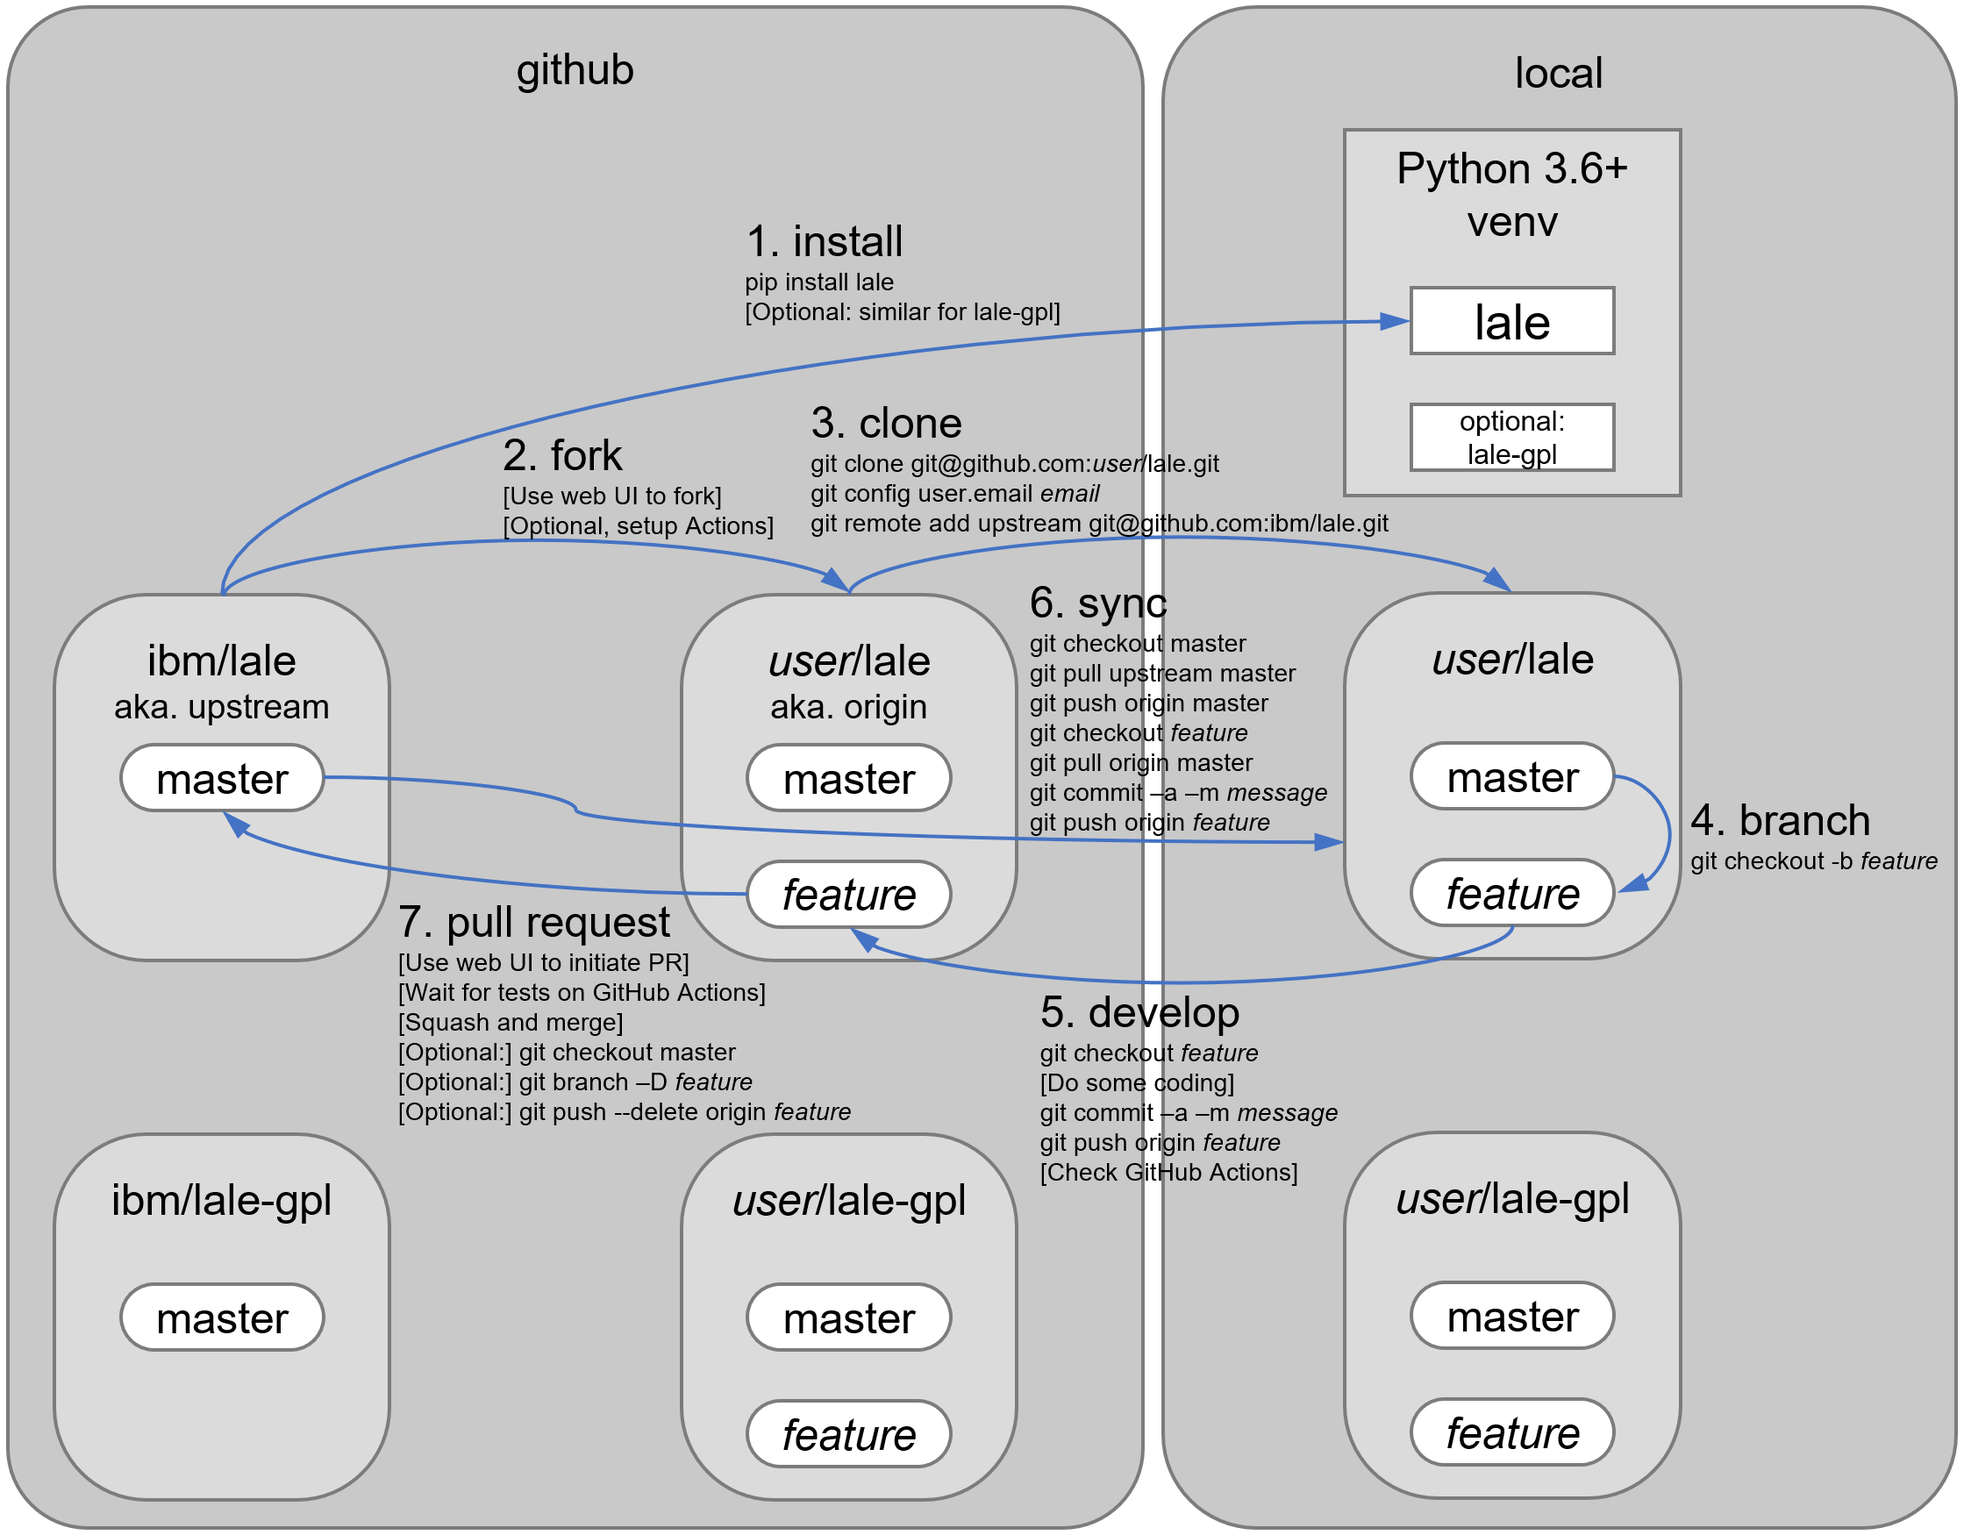
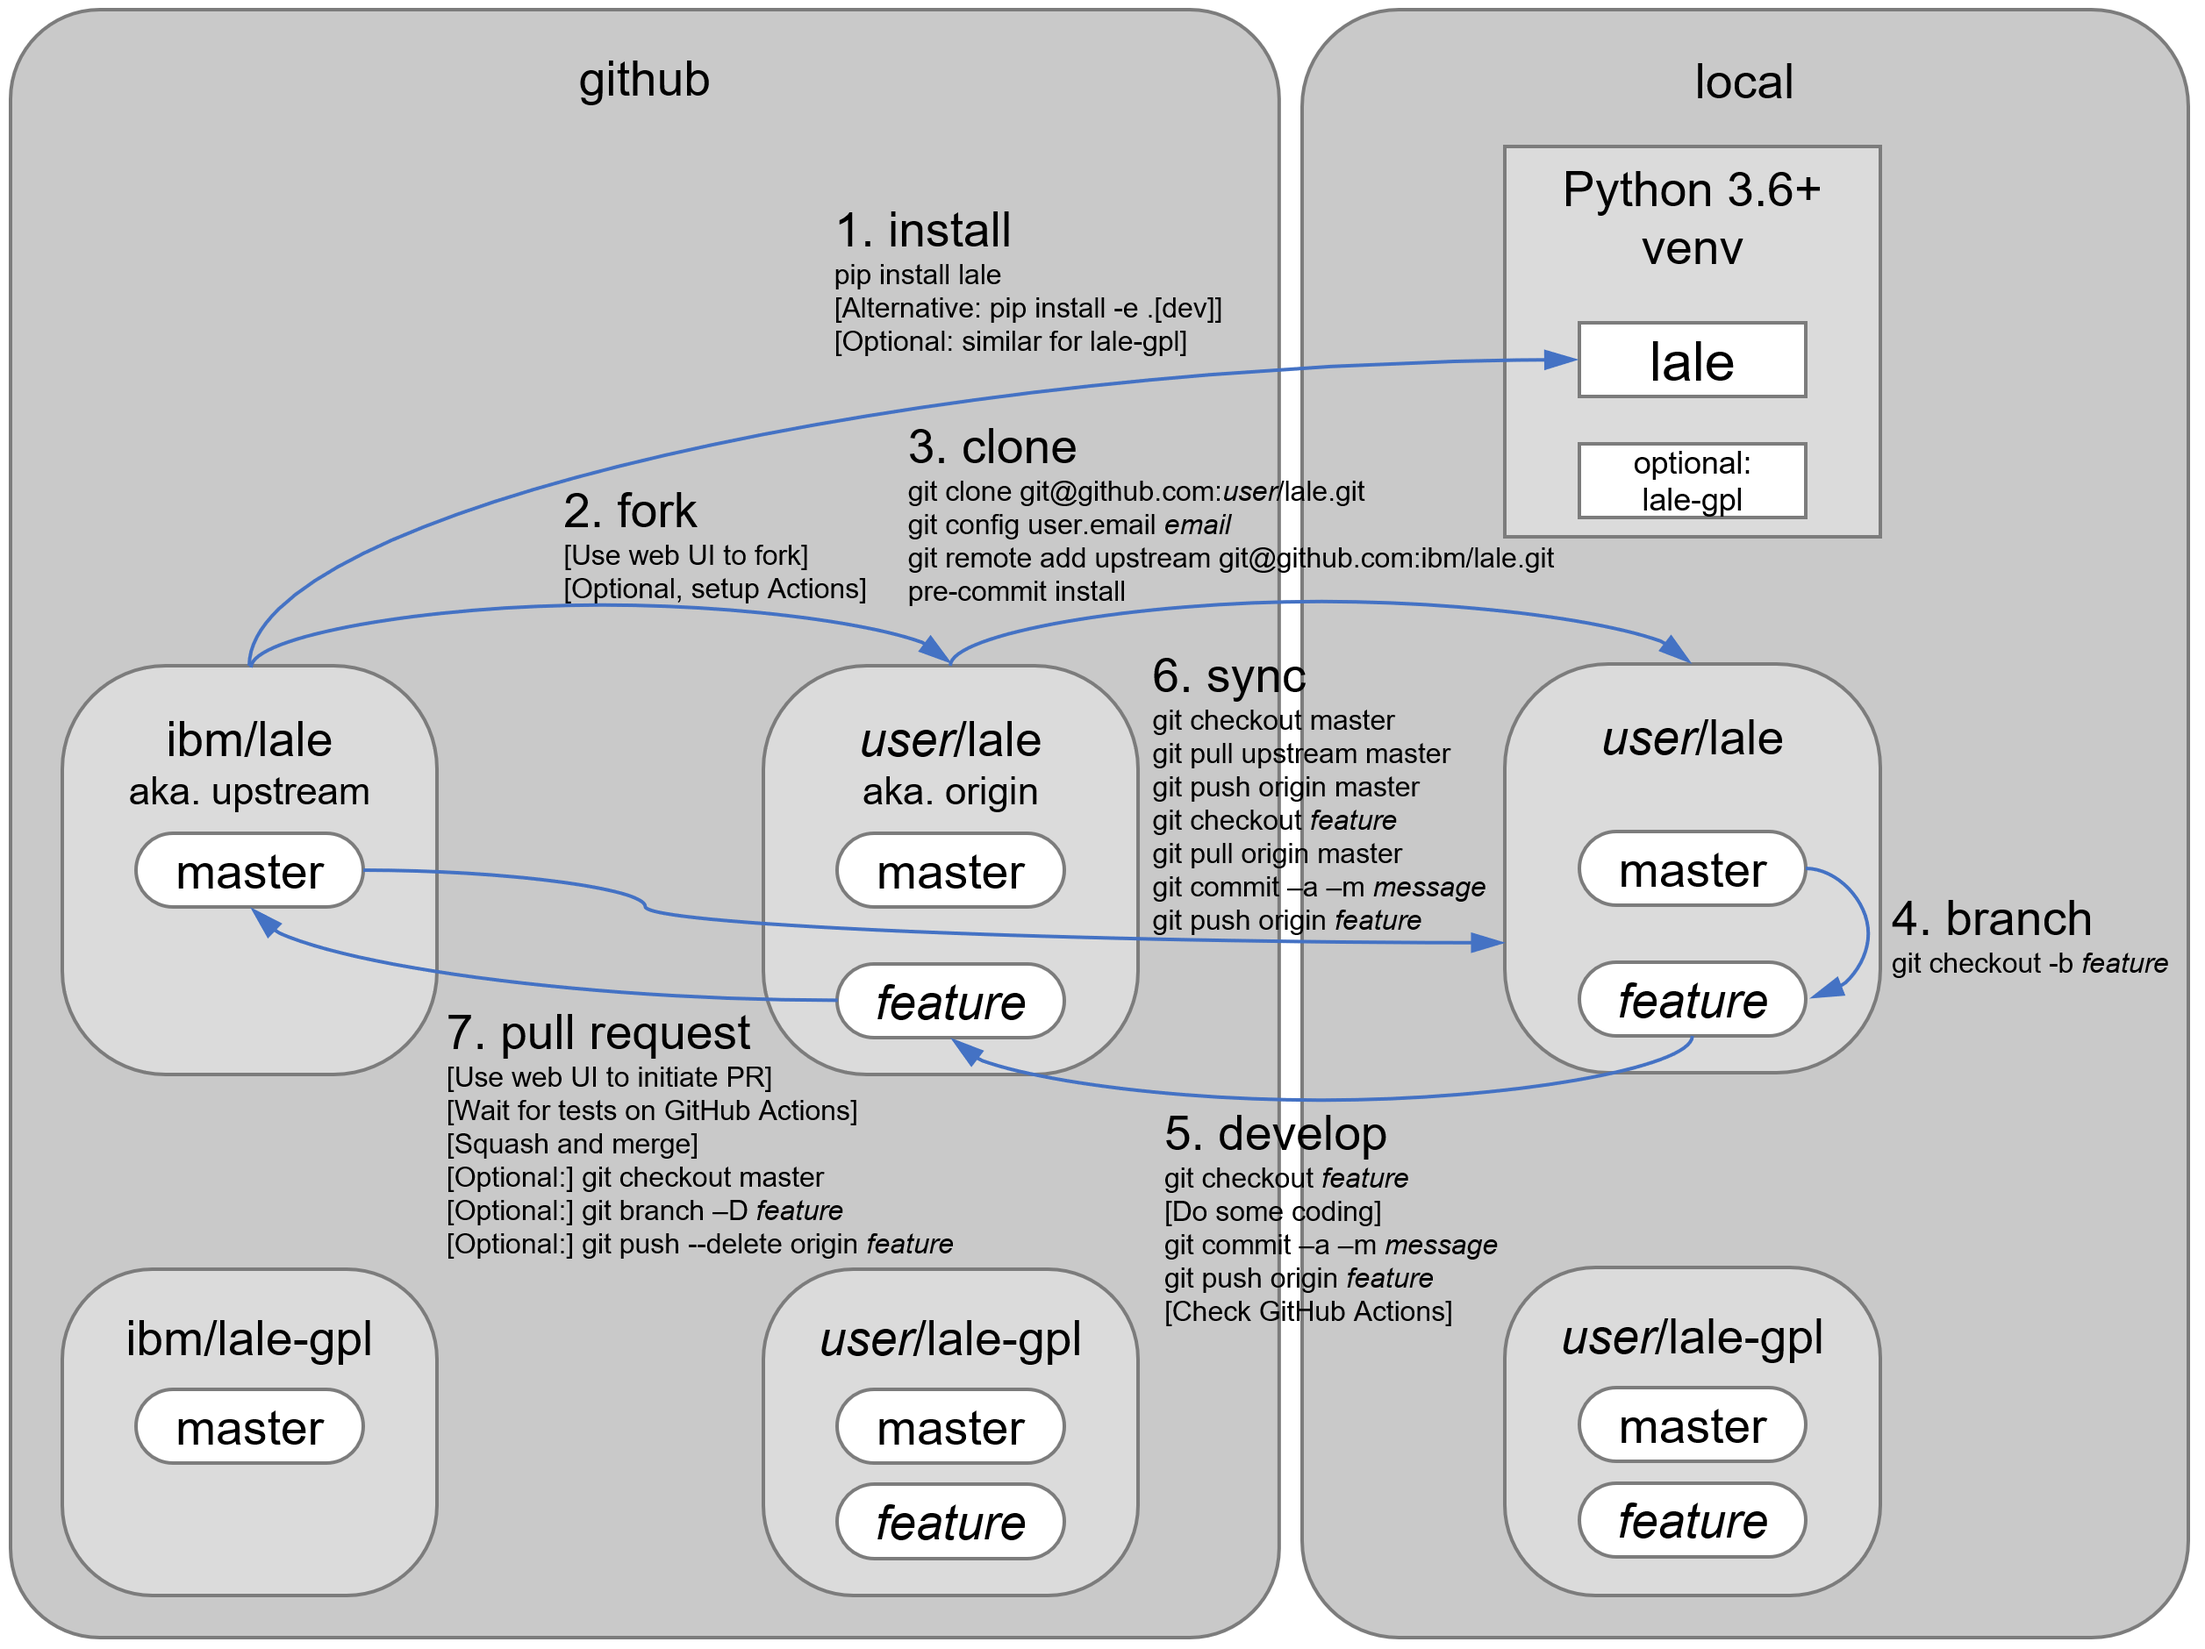
Addressed issue #768; also, updated list of papers. (#870)

diff --git a/docs/papers.rst b/docs/papers.rst
@@ -1,6 +1,55 @@
 Papers
 ======
 
+
+"Pipeline Combinators for Gradual AutoML".
+Guillaume Baudart, Martin Hirzel, Kiran Kate, Parikshit Ram, Avraham Shinnar, and Jason Tsay.
+Conference on Neural Information Processing Systems (NeurIPS), December 2021.
+http://hirzels.com/martin/papers/neurips21-lale.pdf
+
+**This is the preferred citation for the Lale project.**
+
+.. code:: BibTeX
+
+    @InProceedings{baudart_et_al_2021,
+      title = "Pipeline Combinators for Gradual {AutoML}",
+      author = "Baudart, Guillaume and Hirzel, Martin and Kate, Kiran and Ram, Parikshit and Shinnar, Avraham and Tsay, Jason",
+      booktitle = "Advances in Neural Information Processing Systems (NeurIPS)",
+      year = 2021,
+      month = dec }
+
+"RASL: Relational Algebra in Scikit-Learn Pipelines".
+Chirag Sahni, Kiran Kate, Avraham Shinnar, Hoang Thanh Lam, and Martin Hirzel.
+Workshop on Databases and AI (DBAI@NeurIPS), December 2021.
+https://openreview.net/forum?id=u9ct1gjoDcn
+
+.. code:: BibTeX
+
+    @InProceedings{sahni_et_al_2021,
+      title = "{RASL}: Relational Algebra in Scikit-Learn Pipelines",
+      author = "Sahni, Chirag and Kate, Kiran and Shinnar, Avraham and Lam, Hoang Thanh and Hirzel, Martin",
+      booktitle = "Workshop on Databases and AI (DBAI@NeurIPS)",
+      year = 2021,
+      month = dec,
+      url = "https://openreview.net/forum?id=u9ct1gjoDcn" }
+
+"Finding Data Compatibility Bugs with JSON Subschema Checking".
+Andrew Habib, Avraham Shinnar, Martin Hirzel, and Michael Pradel.
+International Symposium on Software Testing and Analysis (ISSTA), pages 620-632, July 2021.
+https://doi.org/10.1145/3460319.3464796
+
+**Winner of a Distinguished Artifact Award at ISSTA 2021.**
+
+.. code:: BibTeX
+
+    @InProceedings{habib_et_al_2021,
+      title = "Finding Data Compatibility Bugs with {JSON} Subschema Checking",
+      author = "Habib, Andrew and Shinnar, Avraham and Hirzel, Martin and Pradel, Michael",
+      booktitle = "International Symposium on Software Testing and Analysis (ISSTA)",
+      year = 2021,
+      pages = "620--632",
+      url = "https://doi.org/10.1145/3460319.3464796" }
+
 "Engineering Fair Machine Learning Pipelines".
 Martin Hirzel, Kiran Kate, and Parikshit Ram.
 ICLR Workshop on Responsible AI (RAI@ICLR), May 2021. 

diff --git a/CONTRIBUTING.md b/CONTRIBUTING.md
@@ -29,7 +29,11 @@ Italics in the visualization indicate parts you have to substitute:
 
 We have a pre-commit hook setup to help ensure that your code is properly formatted
 and passes various static checks.  We highly recommend that you enable it, or at least run the check
-before submitting a PR.  To do so, install the `pre-commit` python package (this is done automatically if you `pip install lale[dev]`).  Run `pre-commit install` in your `lale` repository to enable pre-commit checking, or `pre-commit run --all-files` to just run the checks once.
+before submitting a PR.  To do so, install the `pre-commit` python
+package (this is done automatically if you `pip install -e .[dev]`).
+Run `pre-commit install` in your `lale` repository to enable
+pre-commit checking, or `pre-commit run --all-files` to just run the
+checks once.
 
 Some committers have experienced difficulties with the
 [Pyright](https://github.com/Microsoft/pyright) pre-commit checks,
